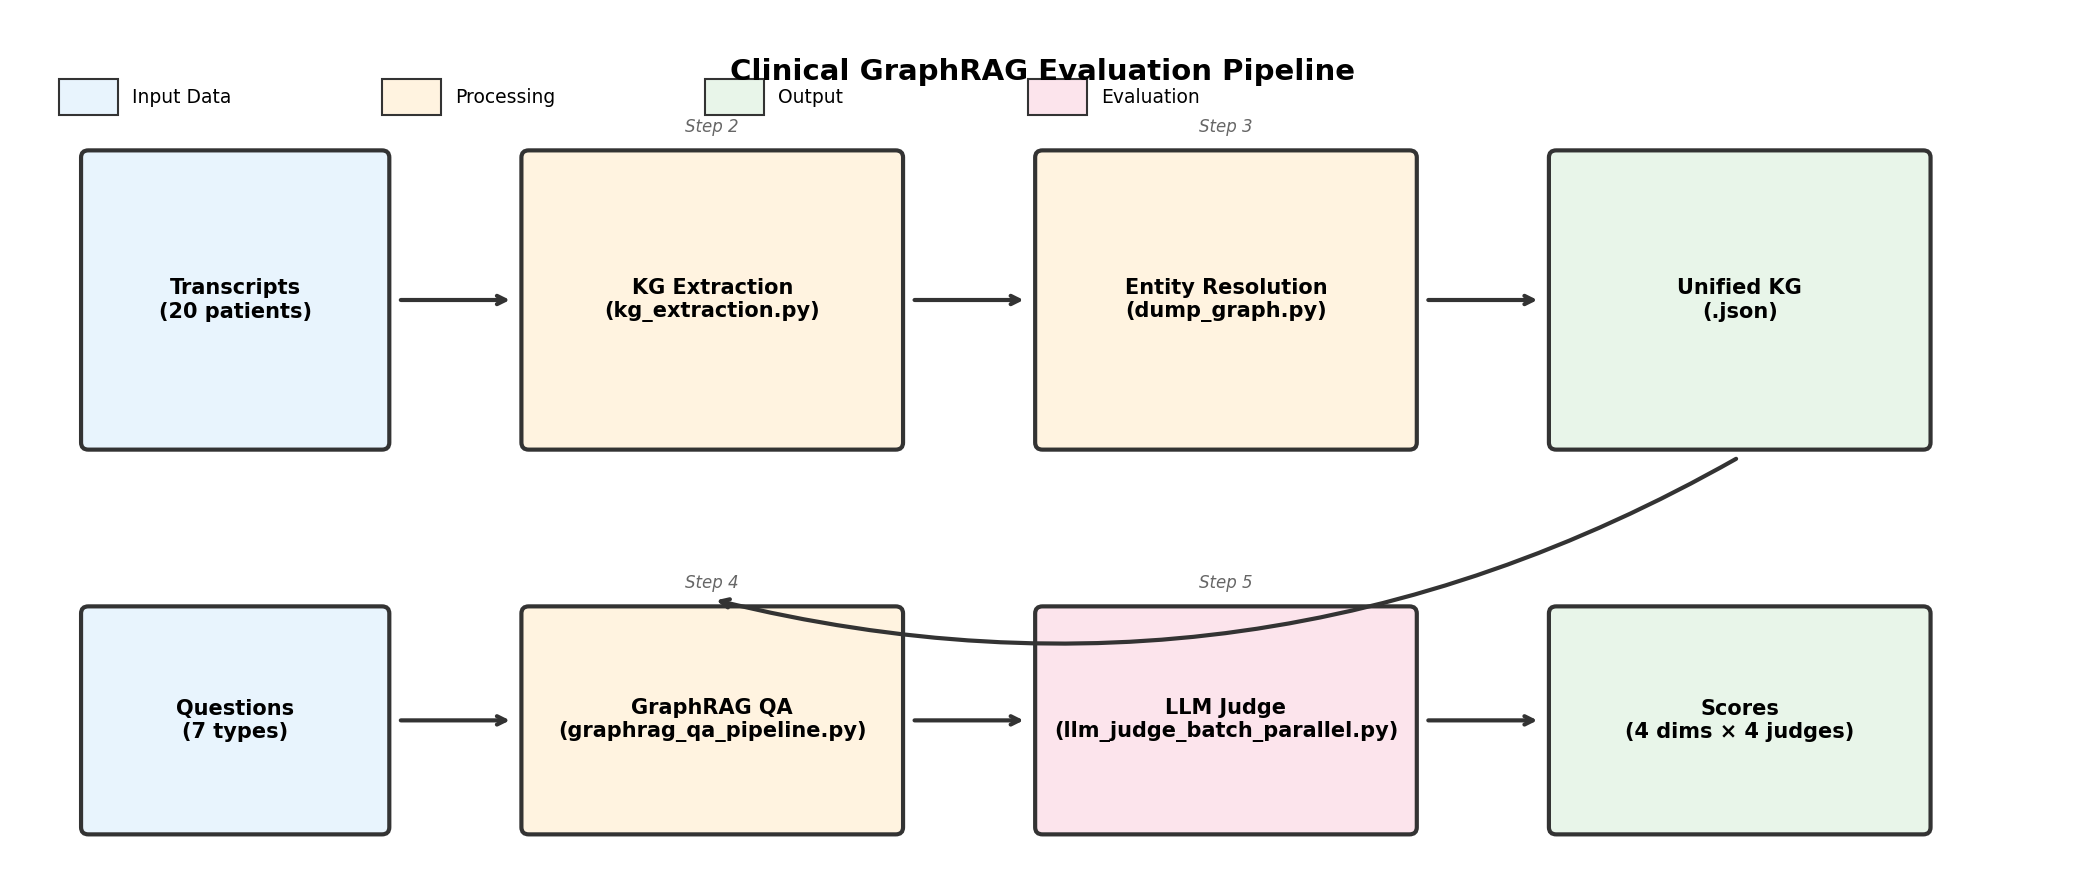
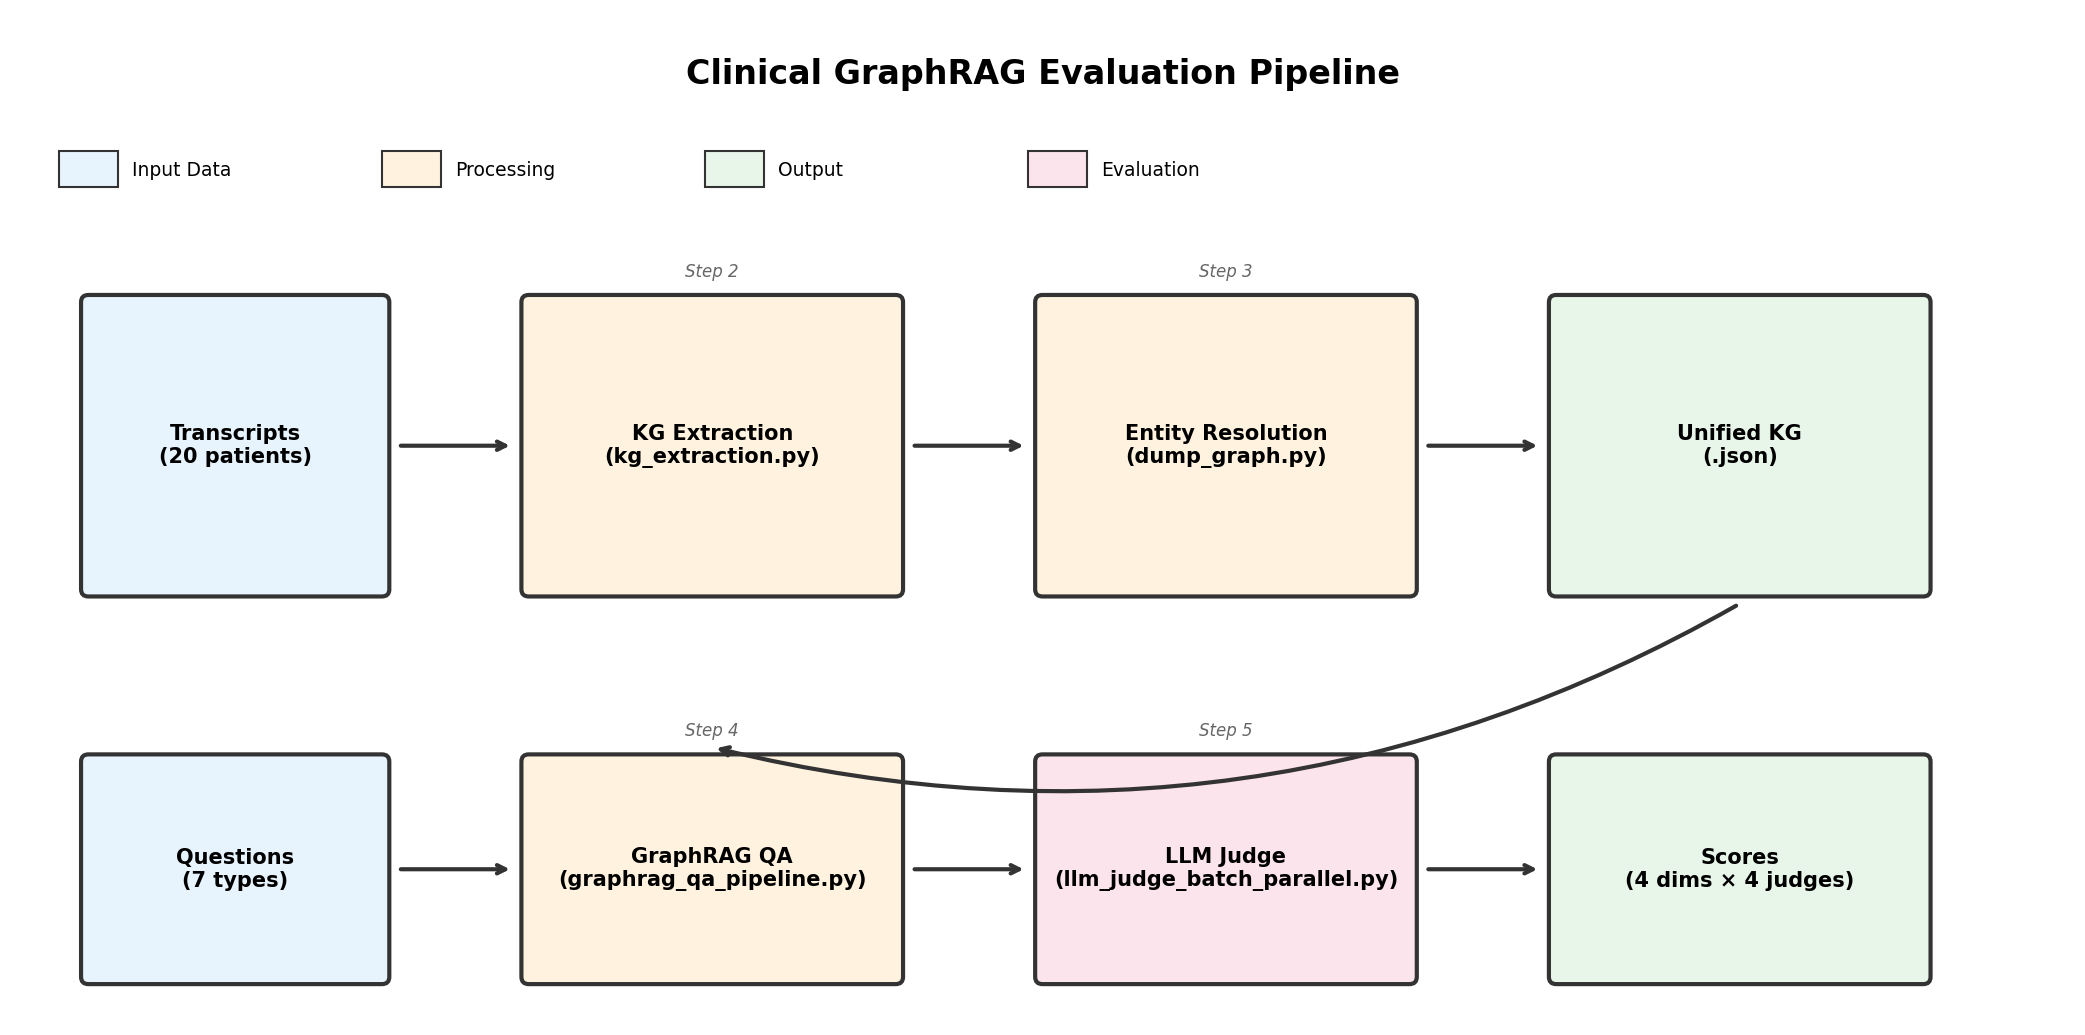
Improve README with hackathon context and step explanations
- Add Hackathon Goal: build multi-agent KG extraction
- Detailed step-by-step explanations with purpose
- Clarify Stage 1 (student focus) vs Stage 2 (provided)
- Fix pipeline figure title position

diff --git a/README.md b/README.md
@@ -2,62 +2,83 @@
 
 Evaluate Knowledge Graph extraction methods for clinical transcripts using GraphRAG QA.
 
+## Hackathon Goal
+
+**Build your own multi-agent KG extraction system** to beat our baselines.
+
+Your task: Design an agentic orchestration pipeline that extracts high-quality Knowledge Graphs from clinical transcripts. We provide the evaluation framework — you bring the innovation.
+
+---
+
 ## Pipeline Overview
 
 ![Pipeline](figures/pipeline_overview.png)
 
-**Stage 1: KG Construction**
-- Extract entities & relations from clinical transcripts (per-patient)
-- Merge into unified graph with entity resolution (BGE-M3 embedding, 0.85 threshold)
+### Stage 1: KG Construction (Your Focus)
 
-**Stage 2: Evaluation**
-- GraphRAG retrieves relevant KG triples to answer clinical questions
-- 4 LLM judges (GPT/Claude/Gemini/Grok) × 3 trials score each answer
+| Step | Script | Purpose |
+|------|--------|---------|
+| **KG Extraction** | `kg_extraction.py` | Extract entities (symptoms, diagnoses, treatments) and relations from each patient's transcript. This is where your multi-agent system comes in. |
+| **Entity Resolution** | `dump_graph.py` | Merge per-patient KGs into a unified graph. Uses BGE-M3 embeddings (0.85 cosine threshold) to deduplicate entities like "high blood pressure" = "hypertension". |
+
+### Stage 2: Evaluation (Provided)
+
+| Step | Script | Purpose |
+|------|--------|---------|
+| **GraphRAG QA** | `graphrag_qa_pipeline.py` | Given a clinical question, retrieve relevant KG triples and generate an answer. Tests if your KG captures the right information. |
+| **LLM Judge** | `llm_judge_batch_parallel.py` | 4 LLM judges (GPT/Claude/Gemini/Grok) × 3 trials score each answer on correctness, completeness, faithfulness, and relevance. |
 
 ---
 
-## Results
+## Baseline Results
 
 ![Comparison](figures/comparison_all_methods.png)
 
-| Method | Score | vs Curated | Cost |
-|--------|-------|------------|------|
-| Curated (Gold) | 3.49 | 100% | $40 |
-| Self-Critic GLM | 3.24 | 93% | $0.12 |
-| Naive | 3.08 | 88% | $0.05 |
-| Text RAG | 2.14 | 61% | $0 |
+| Method | Score | vs Curated | Cost | Description |
+|--------|-------|------------|------|-------------|
+| Curated (Gold) | 3.49 | 100% | $40 | Human expert + 3 SOTA LLMs voting |
+| Self-Critic GLM | 3.24 | 93% | $0.12 | 2-pass extraction with self-correction |
+| Naive | 3.08 | 88% | $0.05 | Single-pass extraction |
+| Text RAG | 2.14 | 61% | $0 | No KG, just text retrieval |
 
-**Takeaway**: Self-Critic achieves 93% quality at 0.3% cost.
+**Takeaway**: Self-Critic achieves 93% of curated quality at 0.3% cost. Can you do better?
 
 ---
 
 ## Quick Start
 
 ```bash
-# Step 1: Setup
-cp api_keys_example.json api_keys.json  # Add your API keys
+# Step 1: Setup API keys
+cp api_keys_example.json api_keys.json  # Add your OpenRouter/Gemini keys
 
-# Step 2: KG Extraction
+# Step 2: KG Extraction (replace with YOUR method)
 python kg_extraction.py --input evaluation_bundle/transcripts --output my_kg/ --method self-critic
 
-# Step 3: Entity Resolution
+# Step 3: Entity Resolution — merge per-patient KGs
 python dump_graph.py --input my_kg/ --output my_unified_graph.json
 
-# Step 4: GraphRAG QA
+# Step 4: GraphRAG QA — answer 140 clinical questions
 python graphrag_qa_pipeline.py --kg my_unified_graph.json --bundle evaluation_bundle/ --output my_results/
 
-# Step 5: LLM Judge
+# Step 5: LLM Judge — score your answers
 python llm_judge_batch_parallel.py --results my_results/ --output my_scores/
 
-# Step 6: Compare to baseline
+# Step 6: Compare to baseline — quick KG quality check
 python kg_similarity_scorer.py --student my_unified_graph.json --baseline baseline_curated/unified_graph_curated.json
 ```
 
-## Structure
+---
+
+## Project Structure
 
 ```
-├── evaluation_bundle/     # 20 patients × 7 question types
-├── baseline_*/            # Pre-computed baselines with scores
+├── evaluation_bundle/     # 20 patients × 7 question types (140 QA pairs)
+├── baseline_*/            # Pre-computed baselines with full evaluation
 ├── figures/               # Visualizations
-└── *.py                   # Pipeline scripts
+├── kg_extraction.py       # Baseline extraction (naive / self-critic)
+├── dump_graph.py          # Entity resolution & KG merging
+├── graphrag_qa_pipeline.py
+├── llm_judge_batch_parallel.py
+├── kg_similarity_scorer.py
+└── visualize.py           # Generate comparison figures
 ```
